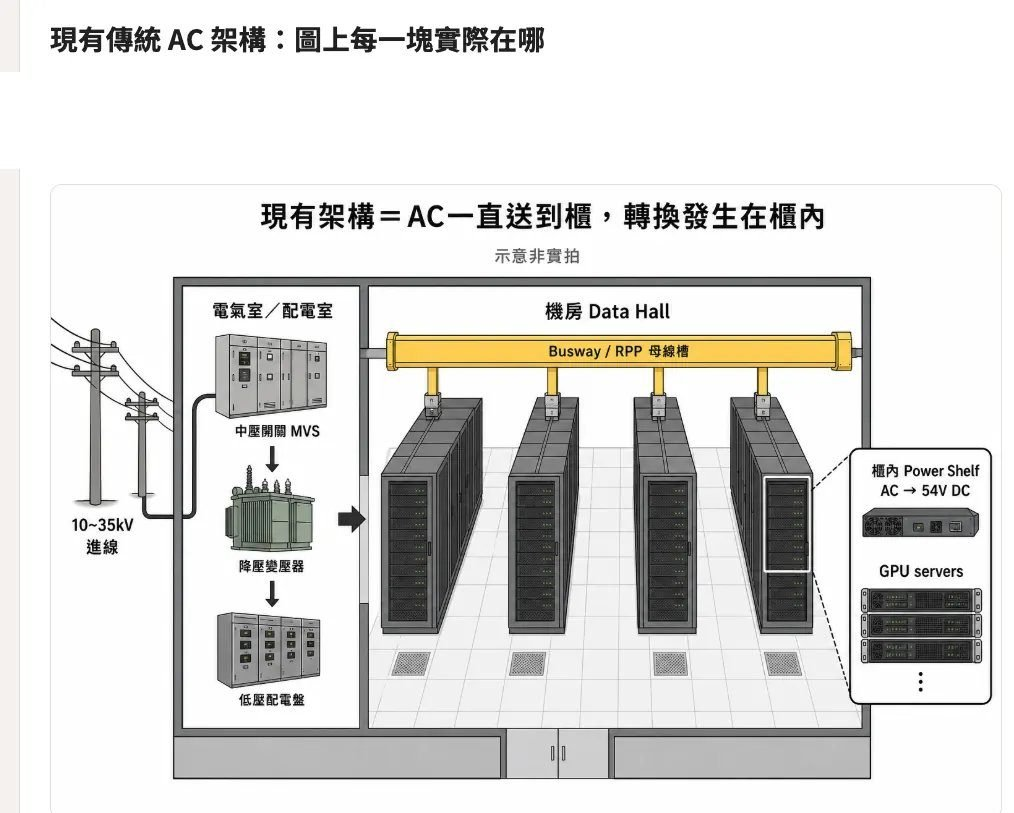
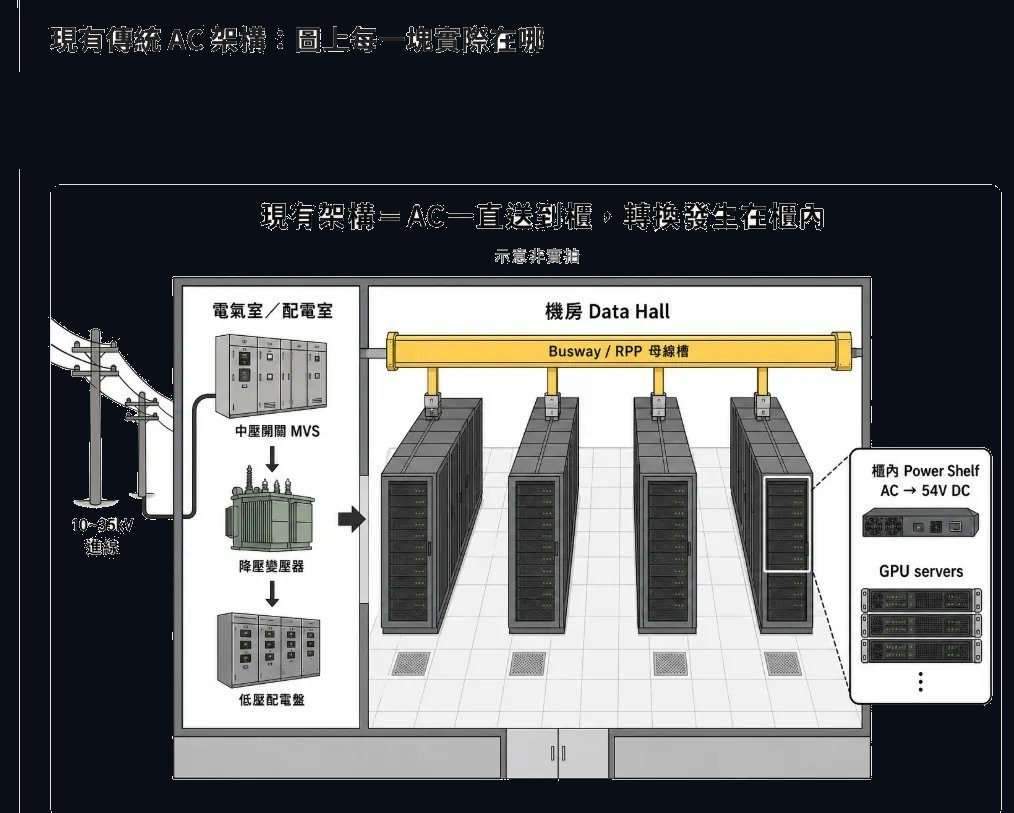
Replace edge-connected white backgrounds with page dark fill

diff --git a/index.html b/index.html
@@ -4,7 +4,7 @@
 <head>
 <meta charset="utf-8"/>
 <meta content="width=device-width, initial-scale=1" name="viewport"/>
-<meta content="2026-08-27-2328-cropwhite" name="share-build"/>
+<meta name="share-build" content="2026-08-27-2335-darkfill" />
 <title>輝達白皮書、跟AI討論後搞懂的一些基本的架構</title>
 <style>
   * { box-sizing: border-box; }
@@ -44,23 +44,23 @@
 <h2>整理筆記</h2>
 <h3 class="rep-h">為什麼要 800V：功率／電流瓶頸</h3>
 <p class="narr">機櫃瓦數往上衝時，若還用很低的電壓送（尤其到約 54V），電流一定爆（P＝V×I）。粗算同一 100kW：54V ≈ 1,850A；800V ≈ 125A。</p>
-<img alt="為什麼要做 800V：同功率電流對照、連鎖後果、解法" src="assets/jpg/img01.jpg?v=2328"/>
+<img alt="為什麼要做 800V：同功率電流對照、連鎖後果、解法" src="assets/jpg/img01.jpg?v=2335"/>
 <p class="caption">示意／非實拍：左＝同 100kW 的電流差；中＝銅線／電源架佔滿 → 密度上不去；右＝提高配電電壓＋轉換往外搬＝800V 高速公路。</p>
 <h3 class="rep-h">新做法先講一次：A／B／C</h3>
 <p class="narr">解法不是只有一條路。白皮書給<strong>三個落點</strong>（可並存，不是一定要 A→B→C 升級）：功率變大時，<strong>AC→800V 的轉換點往上游搬</strong>。</p>
 <p class="narr"><strong>A 機櫃級</strong>＝運算櫃旁邊一台 Power Rack（近端，數百 kW）<br/>
 <strong>B 叢集級</strong>＝一台 Power Center 餵一整排（MW 級）<br/>
 <strong>C 資料中心級</strong>＝Power Block 中壓直轉，整廳走 800V（更長遠）</p>
-<img alt="從數百 kW 機櫃往 MW／GW 機房的尺度" src="assets/jpg/img02.jpg?v=2328"/>
+<img alt="從數百 kW 機櫃往 MW／GW 機房的尺度" src="assets/jpg/img02.jpg?v=2335"/>
 <p class="caption">示意／非實拍：A＝數百 kW（近端）；B＝MW 級叢集；C＝數 MW→往 GW（長遠）。</p>
-<img alt="四種供電架構：現有＋方案 A／B／C" src="assets/jpg/img03.jpg?v=2328"/>
+<img alt="四種供電架構：現有＋方案 A／B／C" src="assets/jpg/img03.jpg?v=2335"/>
 <p class="caption">示意／非實拍：現有＝無 800V；A／B＝415／480V→800V→約 54V；C＝中壓→800V→約 54V。</p>
-<img alt="A／B／C 誰餵誰與數字速查" src="assets/jpg/img04.jpg?v=2328"/>
+<img alt="A／B／C 誰餵誰與數字速查" src="assets/jpg/img04.jpg?v=2335"/>
 <p class="caption">示意／非實拍：A＝1 對 1；B＝1 對多；C＝1 對整廳。細節後面再拆。</p>
 <p class="narr">地圖先有了。下面先把<strong>現有整條電怎麼走到 GPU</strong>與零件認完，後面再細拆 A／B／C。</p>
 <h3 class="rep-h">發電 → GPU：完整路徑（現有）</h3>
 <p class="narr">多數機房<strong>現在還在用的路</strong>先走一遍（A／B／C 改的是後面幾段）。</p>
-<img alt="從發電到 GPU：路徑與電壓合一" src="assets/jpg/img05.jpg?v=2328"/>
+<img alt="從發電到 GPU：路徑與電壓合一" src="assets/jpg/img05.jpg?v=2335"/>
 <p class="caption">示意／非實拍：各段常見電壓數量級；各國電網標稱會差一點。</p>
 <p class="narr">1. <strong>發電廠出口</strong> ≈ 10～25 kV<br/>
     2. <strong>升壓 → 電塔長途輸電</strong> ≈ 161／345 kV（或更高）← 路上高大鐵塔多半在這<br/>
@@ -73,30 +73,30 @@
 <p class="narr">一句：<strong>電塔＝第 2 段</strong>；<strong>機房故事從第 4 段中壓進園區開始</strong>。下面放大第 4～8 步。</p>
 <h3 class="rep-h">園區後面 → GPU（電氣室／機房／進櫃）</h3>
 <p class="narr">重點：<strong>現有架構裡，交流一路送到運算櫃內，才在櫃裡轉成約 54V 直流</strong>。</p>
-<img alt="現有架構：電氣室到機櫃內走電" src="assets/jpg/img06.jpg?v=2328"/>
+<img alt="現有架構：電氣室到機櫃內走電" src="assets/jpg/img06.jpg?v=2335"/>
 <p class="caption">示意／非實拍：功能路徑拆解。</p>
 <p class="narr"><strong>電氣室／配電室</strong>：中壓開關（MVS）→ 降壓變壓器 → 低壓配電盤（約 400～480V AC）。<br/>
 <strong>機房大廳</strong>：母線槽／RPP 把交流沿著列送到各櫃附近；從母線垂下來接到櫃的，常就是 Whip 甩線。<br/>
 <strong>運算機櫃裡面</strong>：Power Shelf 做 AC→約 54V DC，再餵同櫃 GPU。</p>
 <h3 class="rep-h">中壓、MVS</h3>
 <p class="narr"><strong>中壓</strong>＝電塔很高壓與機房 415／480V 低壓之間的檔；進園區常見約 <strong>10～35 kV AC</strong>（Option C 常用標稱也在這檔）。<strong>MVS</strong>＝中壓開關櫃：電氣室裡一人高的金屬櫃，負責這段中壓的接通／切斷／保護，後面才降到約 400～480V。</p>
-<img alt="中壓開關櫃公開實拍" src="assets/jpg/img07.jpg?v=2328"/>
+<img alt="中壓開關櫃公開實拍" src="assets/jpg/img07.jpg?v=2335"/>
 <p class="caption">公開實拍（Wikimedia Commons）：中壓開關櫃內部。</p>
 <h3 class="rep-h">降壓變壓器</h3>
 <p class="narr"><strong>降壓變壓器</strong>＝把中壓（約 10～35 kV）降到機房能用的<strong>低壓交流</strong>（約 <strong>400～480V AC</strong>）。電氣室裡常見乾式／澆注型金屬櫃體，不是電塔旁邊那種桿上小罐子。後面才進低壓配電盤。</p>
-<img alt="降壓變壓器實景示意" src="assets/jpg/img08.jpg?v=2328"/>
+<img alt="降壓變壓器實景示意" src="assets/jpg/img08.jpg?v=2335"/>
 <p class="caption">示意／非實拍：電氣室降壓變壓器長相（非現場照；圖偏散熱片／風扇型）。</p>
 <h3 class="rep-h">低壓配電盤</h3>
 <p class="narr"><strong>低壓配電盤</strong>＝接到變壓器後面、把約 400～480V AC <strong>分路、保護、再送出去</strong>的金屬櫃排（斷路器、母排、計量）。人話：電氣室最後一關，後面才進機房母線／RPP。</p>
-<img alt="低壓配電盤實景示意" src="assets/jpg/img09.jpg?v=2328"/>
+<img alt="低壓配電盤實景示意" src="assets/jpg/img09.jpg?v=2335"/>
 <p class="caption">示意／非實拍：低壓開關／配電盤列（非現場照）。</p>
 <h3 class="rep-h">機房母線長怎樣</h3>
 <p class="narr">現在多數資料中心<strong>機櫃列上方走電</strong>，長這樣：頭上掛一條<strong>金屬軌道母線</strong>（Track Busway／母線槽），不是一捆電線。<br/>
     順序：長軌道 → 插接箱／Tap-off 夾上去 → 垂下的 <strong>Whip</strong> 進櫃。<br/>
     電氣室／大電流幹線有時用封閉式 sandwich 母線（方管貼牆），那是另一段；冷通道上餵機櫃，多半是這種軌道。</p>
-<img alt="廠商產品圖：Track Busway 軌道母線與插接箱" src="assets/jpg/img10.jpg?v=2328"/>
+<img alt="廠商產品圖：Track Busway 軌道母線與插接箱" src="assets/jpg/img10.jpg?v=2335"/>
 <p class="caption">廠商產品圖（Starline Track Busway）｜非機房現場照，但零件長相就是現在機櫃列頭頂常見款：銀軌道＝母線槽；灰盒＝插接箱；右邊垂下黑線＋接頭＝Whip。</p>
-<img alt="母線槽剖面銅排" src="assets/jpg/img11.jpg?v=2328"/>
+<img alt="母線槽剖面銅排" src="assets/jpg/img11.jpg?v=2335"/>
 <p class="caption">示意／非實拍：外殼方管，裡面扁銅排。</p>
 <h3 class="rep-h">Power Whip（甩線）</h3>
 <p class="narr"><strong>接到機櫃上的可插拔供電線束</strong>，不是整條母線本體。<br/>
@@ -106,57 +106,57 @@
 <p class="narr">先搞懂<strong>零件語言</strong>，下面講 Power Rack 才接得上。分兩層：<br/>
 <strong>Power Shelf（電源架）</strong>＝機櫃裡橫插的<strong>一層架子</strong>（有背板、槽位、匯流）。<br/>
 <strong>模組磚</strong>＝插進 Shelf 的可熱插拔窄長金屬磚；<strong>轉換在 PSU 裡</strong>。這篇主要兩種：<strong>PSU、BBU</strong>。</p>
-<img alt="現有 Power Shelf：長相＋怎麼組" src="assets/jpg/img12.jpg?v=2328"/>
+<img alt="現有 Power Shelf：長相＋怎麼組" src="assets/jpg/img12.jpg?v=2335"/>
 <p class="caption">示意／非實拍：架子＝Shelf；磚＝PSU；AC→約 54V；BBU 少見；無 800V／無隔壁 Power Rack。</p>
-<img alt="廠商產品圖：Power Shelf 與抽出的 PSU" src="assets/jpg/img13.jpg?v=2328"/>
+<img alt="廠商產品圖：Power Shelf 與抽出的 PSU" src="assets/jpg/img13.jpg?v=2335"/>
 <p class="caption">廠商產品圖（台達）：架子＝Shelf；抽出窄長磚＝PSU。</p>
 <p class="narr"><strong>一層 Power Shelf 怎麼構成？</strong> 櫃內留固定高度（例 1U、7U）→ 金屬架＋<strong>背板（backplane）</strong>匯流 → 前面一排<strong>槽位</strong>插模組磚 → 電從背板進出到櫃內母線。現有運算櫃常疊多層 Shelf，每層多半插滿 PSU（AC→約 54V）。</p>
 <h3 class="rep-h">PSU（Power Supply Unit，電源供應器）</h3>
 <p class="narr">＝從<strong>交流</strong>轉成<strong>直流</strong>的翻譯磚。<strong>現有</strong>運算櫃：AC 進 → <strong>約 54V DC 出</strong>。<strong>新解方</strong> Power Rack 裡的 PSU 則改做 AC → <strong>800V DC</strong>（外形仍像同一種磚；見方案 A）。</p>
-<img alt="PSU 內部功能示意" src="assets/jpg/img14.jpg?v=2328"/>
+<img alt="PSU 內部功能示意" src="assets/jpg/img14.jpg?v=2335"/>
 <p class="caption">示意／非實拍：這張是 <strong>Power Rack 裡</strong>做 AC→800V 的 PSU 流程（不是現有運算櫃 AC→約 54V 那顆）。</p>
 <p class="narr"><strong>圖上各段（中英）</strong>：<strong>AC（交流）</strong> → <strong>EMI filter（電磁干擾濾波）</strong> → <strong>整流 Rectifier ＋ PFC（功率因數修正）</strong> → <strong>隔離轉換 Isolated conversion</strong>（常上 SiC／GaN）→ <strong>800V DC out</strong>。</p>
 <h3 class="rep-h">原本 Compute Rack 怎麼用（拼成整櫃）</h3>
 <p class="narr">認完 PSU，這裡把<strong>傳統運算櫃</strong>拼起來：AC Whip 從母線垂進來 → 櫃頂幾層 Power Shelf（每層插 PSU，AC→約 54V）→ 下面塞 GPU。這張圖<strong>只用得到 PSU</strong>，還用不到 BBU；也沒有隔壁 Power Rack、沒有櫃間 800V。</p>
-<img alt="現有原本 Compute Rack 怎麼用" src="assets/jpg/img15.jpg?v=2328"/>
+<img alt="現有原本 Compute Rack 怎麼用" src="assets/jpg/img15.jpg?v=2335"/>
 <p class="caption">示意／非實拍：轉換點在運算櫃裡面；圖上 Power Shelf／PSU 對應上一節。</p>
 <p class="narr">瓦數再往上衝時，櫃內電源架與粗線把空間吃光——這就是開頭那個瓶頸落到「單櫃長相」上的樣子。</p>
 <h3 class="rep-h">BBU（Battery Backup Unit，電池備援單元）</h3>
 <p class="narr">＝插在同一層 Shelf 裡的<strong>電池磚</strong>。平常充電；斷電時短時間放電頂住母線（約 60 秒量級）。<strong>現有</strong>運算櫃空間少、較少配；<strong>新解方</strong>常跟 PSU 一起塞在 Power Rack 的 Shelf 裡（見方案 A）。</p>
-<img alt="OCP ORV3 BBU 模組實拍" src="assets/jpg/img16.jpg?v=2328"/>
+<img alt="OCP ORV3 BBU 模組實拍" src="assets/jpg/img16.jpg?v=2335"/>
 <p class="caption">公開實拍（ADI OCP ORV3 BBU Reference Design）：電池磚＋背板。ORV3 約 48V／3kW 參考規格；800V／20～25kW 是同概念、更高規格（業界參考約數，非白皮書直接標）。</p>
-<img alt="BBU 單顆模組特寫" src="assets/jpg/img17.jpg?v=2328"/>
+<img alt="BBU 單顆模組特寫" src="assets/jpg/img17.jpg?v=2335"/>
 <p class="caption">同上：單顆特寫。</p>
-<img alt="BBU 內部功能示意" src="assets/jpg/img18.jpg?v=2328"/>
+<img alt="BBU 內部功能示意" src="assets/jpg/img18.jpg?v=2335"/>
 <p class="caption">示意／非實拍：功能拆解。</p>
 <p class="narr"><strong>圖上各段（中英）</strong>：<strong>電池芯／模組 Battery cell／module</strong> → <strong>BMS（Battery Management System，電池管理）</strong> → <strong>充放電 Charge／Discharge</strong>。</p>
-<img alt="PSU 與 BBU 並接在同一條 800V 母線" src="assets/jpg/img19.jpg?v=2328"/>
+<img alt="PSU 與 BBU 並接在同一條 800V 母線" src="assets/jpg/img19.jpg?v=2335"/>
 <p class="caption">示意／非實拍：左平常＝AC→PSU→母線；右斷電＝BBU→母線（不經 PSU）。</p>
 <h3 class="rep-h">細拆：傳統 vs 新，再拆 A／B／C</h3>
 <p class="narr"><strong>路徑對照：</strong>舊做法＝AC 一路進運算櫃才轉約 54V；新做法＝中間插一條 <strong>800V DC 高速公路</strong>，再降到約 54V（或 Kyber 可直降約 12V）。A／B／C 地圖見前面總覽，這裡往下拆。</p>
-<img alt="電壓對齊：傳統路徑 vs 新做法（插入 800V 高速公路）" src="assets/jpg/img20.jpg?v=2328"/>
+<img alt="電壓對齊：傳統路徑 vs 新做法（插入 800V 高速公路）" src="assets/jpg/img20.jpg?v=2335"/>
 <p class="caption">示意／非實拍：上＝傳統（AC 直進櫃轉 54V）；下＝新做法插入 800V 中段；虛線＝Option C 可從中壓直轉。</p>
 <h3 class="rep-h">方案 A｜功率與層數</h3>
-<img alt="方案 A：660kW 餵向 540kW" src="assets/jpg/img21.jpg?v=2328"/>
+<img alt="方案 A：660kW 餵向 540kW" src="assets/jpg/img21.jpg?v=2335"/>
 <p class="caption">示意／非實拍：一個 Shelf → 疊幾層 → 660／540。櫃間 800V 用<strong>多條 125A Whip 並聯</strong>（540kW@800V≈675A），不是一條就夠。</p>
-<img alt="方案 A：Power Rack 與運算櫃" src="assets/jpg/img22.jpg?v=2328"/>
+<img alt="方案 A：Power Rack 與運算櫃" src="assets/jpg/img22.jpg?v=2335"/>
 <p class="caption">示意／非實拍：左 Power Rack、右運算櫃；中間 800V Whip（單條約 125A，實務多條並聯才餵得滿）。</p>
 <p class="narr"><strong>過渡 vs Kyber：</strong>上面「800→約 54V」是近端／過渡常見畫法。Kyber 原生可在節點用 <strong>64:1 LLC 直降約 12V</strong>，不一定再經 54V 中段。</p>
 <h3 class="rep-h">方案 B｜叢集級 Power Center</h3>
 <p class="narr"><strong>先一句搞懂：</strong>方案 A＝每台運算櫃旁邊一台小電源櫃（1 餵 1）。方案 B＝改成<strong>遠處一台大電源中心</strong>，用頭上 800V 母線一次餵<strong>一整排</strong>運算櫃（1 餵多）。</p>
 <p class="narr"><strong>為什麼要 B？</strong> A 在叢集變大時，旁邊電源櫃太多、Whip 太亂。B 把轉換集中（叢集量級約 <strong>〜2 MW</strong>），佈線較乾淨；但分支故障怎麼切變難（後面接觸器／MCCB／SSCB）。時程約 2027Q3 試點起，偏中長期。</p>
 <p class="narr"><strong>進電幾 V？</strong> 跟 A 同一檔：<strong>415／480V AC</strong> 進 Power Center → 轉 <strong>800V DC</strong> 往外。不是中壓（那是 C）。</p>
-<img alt="方案 B 圖1：Power Center 進出電示意" src="assets/jpg/img23.jpg?v=2328"/>
+<img alt="方案 B 圖1：Power Center 進出電示意" src="assets/jpg/img23.jpg?v=2335"/>
 <p class="caption">圖1｜示意／非實拍：上頭銀槽＝AC 進；綠扁母線＝800V 往右出算力區；左開櫃＝電源模組排。</p>
-<img alt="方案 B 圖2：800V 母線餵多台運算櫃示意" src="assets/jpg/img24.jpg?v=2328"/>
+<img alt="方案 B 圖2：800V 母線餵多台運算櫃示意" src="assets/jpg/img24.jpg?v=2335"/>
 <p class="caption">圖2｜示意／非實拍：綠扁母線在頭頂 → 插接箱 → 垂進各運算櫃；櫃內分電源層與運算層。</p>
 <p class="narr"><strong>分支故障怎麼切？</strong> B 用一條 800V 母線餵多櫃，某一支短路不能整排一起掛。切斷裝在 <strong>Tap-off Box</strong>（掛在母線上的分接盒）裡。</p>
-<img alt="廠商產品圖：母線上的 Tap-off Box／插接箱" src="assets/jpg/img25.jpg?v=2328"/>
+<img alt="廠商產品圖：母線上的 Tap-off Box／插接箱" src="assets/jpg/img25.jpg?v=2335"/>
 <p class="caption">現實｜廠商產品圖（Starline Track Busway 插接箱／Tap-off）：掛在軌道母線上；可含斷路器、插座或垂線。非現場照；型式示意 Option B 的分接盒角色（電壓／額定依專案）。</p>
-<img alt="方案 B：Tap-off 裝在母線分支上" src="assets/jpg/img26.jpg?v=2328"/>
+<img alt="方案 B：Tap-off 裝在母線分支上" src="assets/jpg/img26.jpg?v=2335"/>
 <p class="caption">示意／非實拍：綠＝800V 母線；Tap-off＝分支盒；裡面裝接觸器／MCCB／SSCB 其中一種。</p>
 <p class="narr"><strong>三種切斷方案：</strong>繼電器／接觸器｜MCCB｜SSCB。差在中間怎麼斷——</p>
-<img alt="三種切斷：接近實物的長相與原理" src="assets/jpg/img27.jpg?v=2328"/>
+<img alt="三種切斷：接近實物的長相與原理" src="assets/jpg/img27.jpg?v=2335"/>
 <p class="caption">示意／非某廠指定型號：接觸器／MCCB 外型＝公開實拍；SSCB＝結構示意（不虛構產品面板）。半導體開關以 <strong>Si／SiC 為主</strong>（800V 場景 GaN 少見）。</p>
 <p class="narr"><strong>為什麼 DC 特別難切？</strong> AC 有自然過零點較好滅弧；高壓 DC 沒有 → 機械接點更痛，才把規格／SSCB 抬起來。</p>
 <h3 class="rep-h">方案 C｜資料中心級（中壓直轉 800V）</h3>
@@ -168,7 +168,7 @@
 <p class="narr"><strong>TRU</strong>＝Transformer Rectifier Unit，變壓整流單元。字面就是<strong>變壓器＋整流器綁成一套</strong>。用傳統 50／60Hz 大變壓器把中壓降下來並隔離，再用整流器把交流變成直流。工業界用很久（電解、軌道、礦場的大功率直流電源）。優點：成熟、可靠、好部署 → <strong>近端較可能</strong>做成 Power Block。代價是又大又重。</p>
 <p class="narr"><strong>SST</strong>＝Solid-State Transformer，固態變壓器。「固態」＝用半導體開關，不是那顆大鐵心。用 SiC 功率模組＋高頻小變壓器，用電子方式做降壓、隔離、整流、穩壓。優點：體積小、功率密度高、長期整合強 → <strong>長線較有潛力</strong>。還在量產驗證；台達 SST 量產線約 2027Q1 量級（產業消息，非白皮書），不是近端 Rubin 故事。</p>
 <p class="narr">記一句：同一個職位（中壓直轉 800V），<strong>TRU＝舊配方（大鐵心＋整流）</strong>，<strong>SST＝新配方（一堆高頻功率模組）</strong>。</p>
-<img alt="方案 C：路徑＋Power Block 裡 TRU 與 SST 兩種做法（整合版）" src="assets/jpg/img28.jpg?v=2328"/>
+<img alt="方案 C：路徑＋Power Block 裡 TRU 與 SST 兩種做法（整合版）" src="assets/jpg/img28.jpg?v=2335"/>
 <p class="caption">示意／非實拍（整合版）：上＝中壓→Power Block→整廳 800V→運算櫃；中＝TRU（舊配方）vs SST（新配方）；底＝都做降壓＋隔離＋整流＋穩壓。</p>
 <p class="narr"><strong>Power Block 裡面：</strong>不是超大 PSU、也不是把 Power Rack 放大。一座轉換廠，把<strong>降壓、隔離、整流、穩壓</strong>一次做完；外面一排灰櫃，裡面就是 TRU 或 SST。</p>
 <p class="narr"><strong>不要跟 Power Rack 混：</strong>Power Rack 吃 415／480V、裡是 PSU 磚；Power Block 吃<strong>中壓</strong>，一定有能碰中壓的東西。</p>
@@ -178,12 +178,12 @@
     • <strong>整流模組</strong>（二極體／閘流體）＝交流變直流<br/>
     • 濾波電容／電感＋穩壓控制＝把 800V 撫平、釘住</p>
 <p class="narr"><strong>長線 SST：</strong>同一四件事，改很多層 <strong>SiC 功率模組</strong>串起來扛中壓；每層＝SiC 開關＋高頻小變壓器＋整流，輸出並聯成 800V。體積小、密度高。</p>
-<img alt="公開實拍：工頻澆注變壓器三柱線圈" src="assets/jpg/img29.jpg?v=2328"/>
+<img alt="公開實拍：工頻澆注變壓器三柱線圈" src="assets/jpg/img29.jpg?v=2335"/>
 <p class="caption">公開實拍（Wikimedia Commons）：工頻澆注變壓器。TRU 裡「降壓＋隔離」就是這種三柱線圈；Power Block 用的是 MW 級、更大。不是 800V 的 PSU 磚。</p>
 <p class="narr">收束只記一句：舊機房 AC 進櫃才轉約 54V；新做法提早轉 800V 再降到約 54V。B 會卡在 DC 切斷／滅弧（MCCB／SSCB）。</p>
 <h3 class="rep-h">哪些公司有機會（近→遠）</h3>
 <p class="narr">分檔＝跟本篇機制多貼（不是報酬）。只列原文有掛、關聯夠硬的；不夠純的不硬塞。</p>
-<img alt="800V 供電相關公司：近到遠關聯示意" src="assets/jpg/img30.jpg?v=2328"/>
+<img alt="800V 供電相關公司：近到遠關聯示意" src="assets/jpg/img30.jpg?v=2335"/>
 <p class="caption">示意／非投資建議。</p>
 </div>
 </body>
